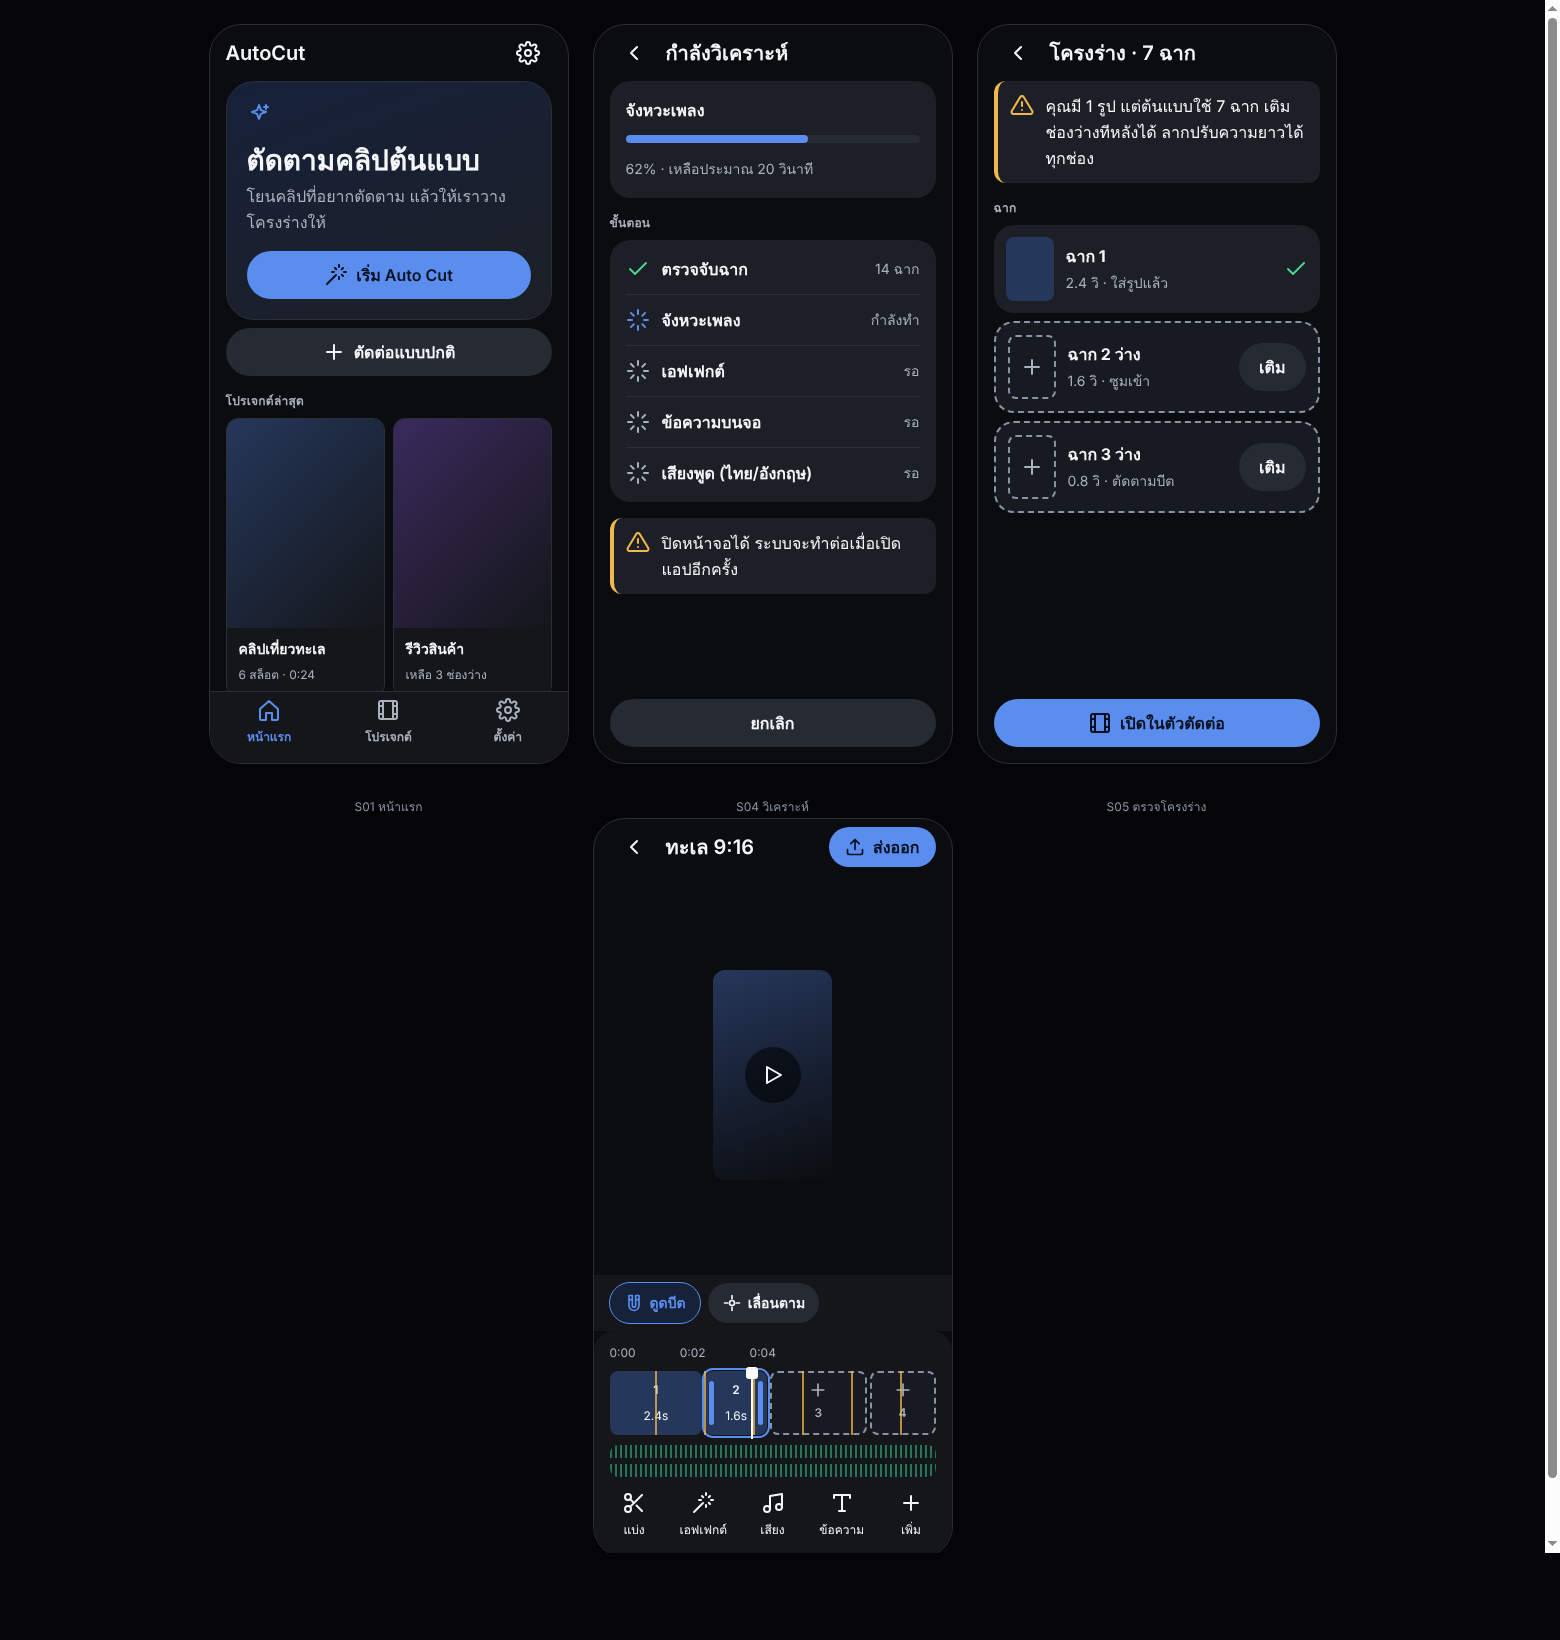
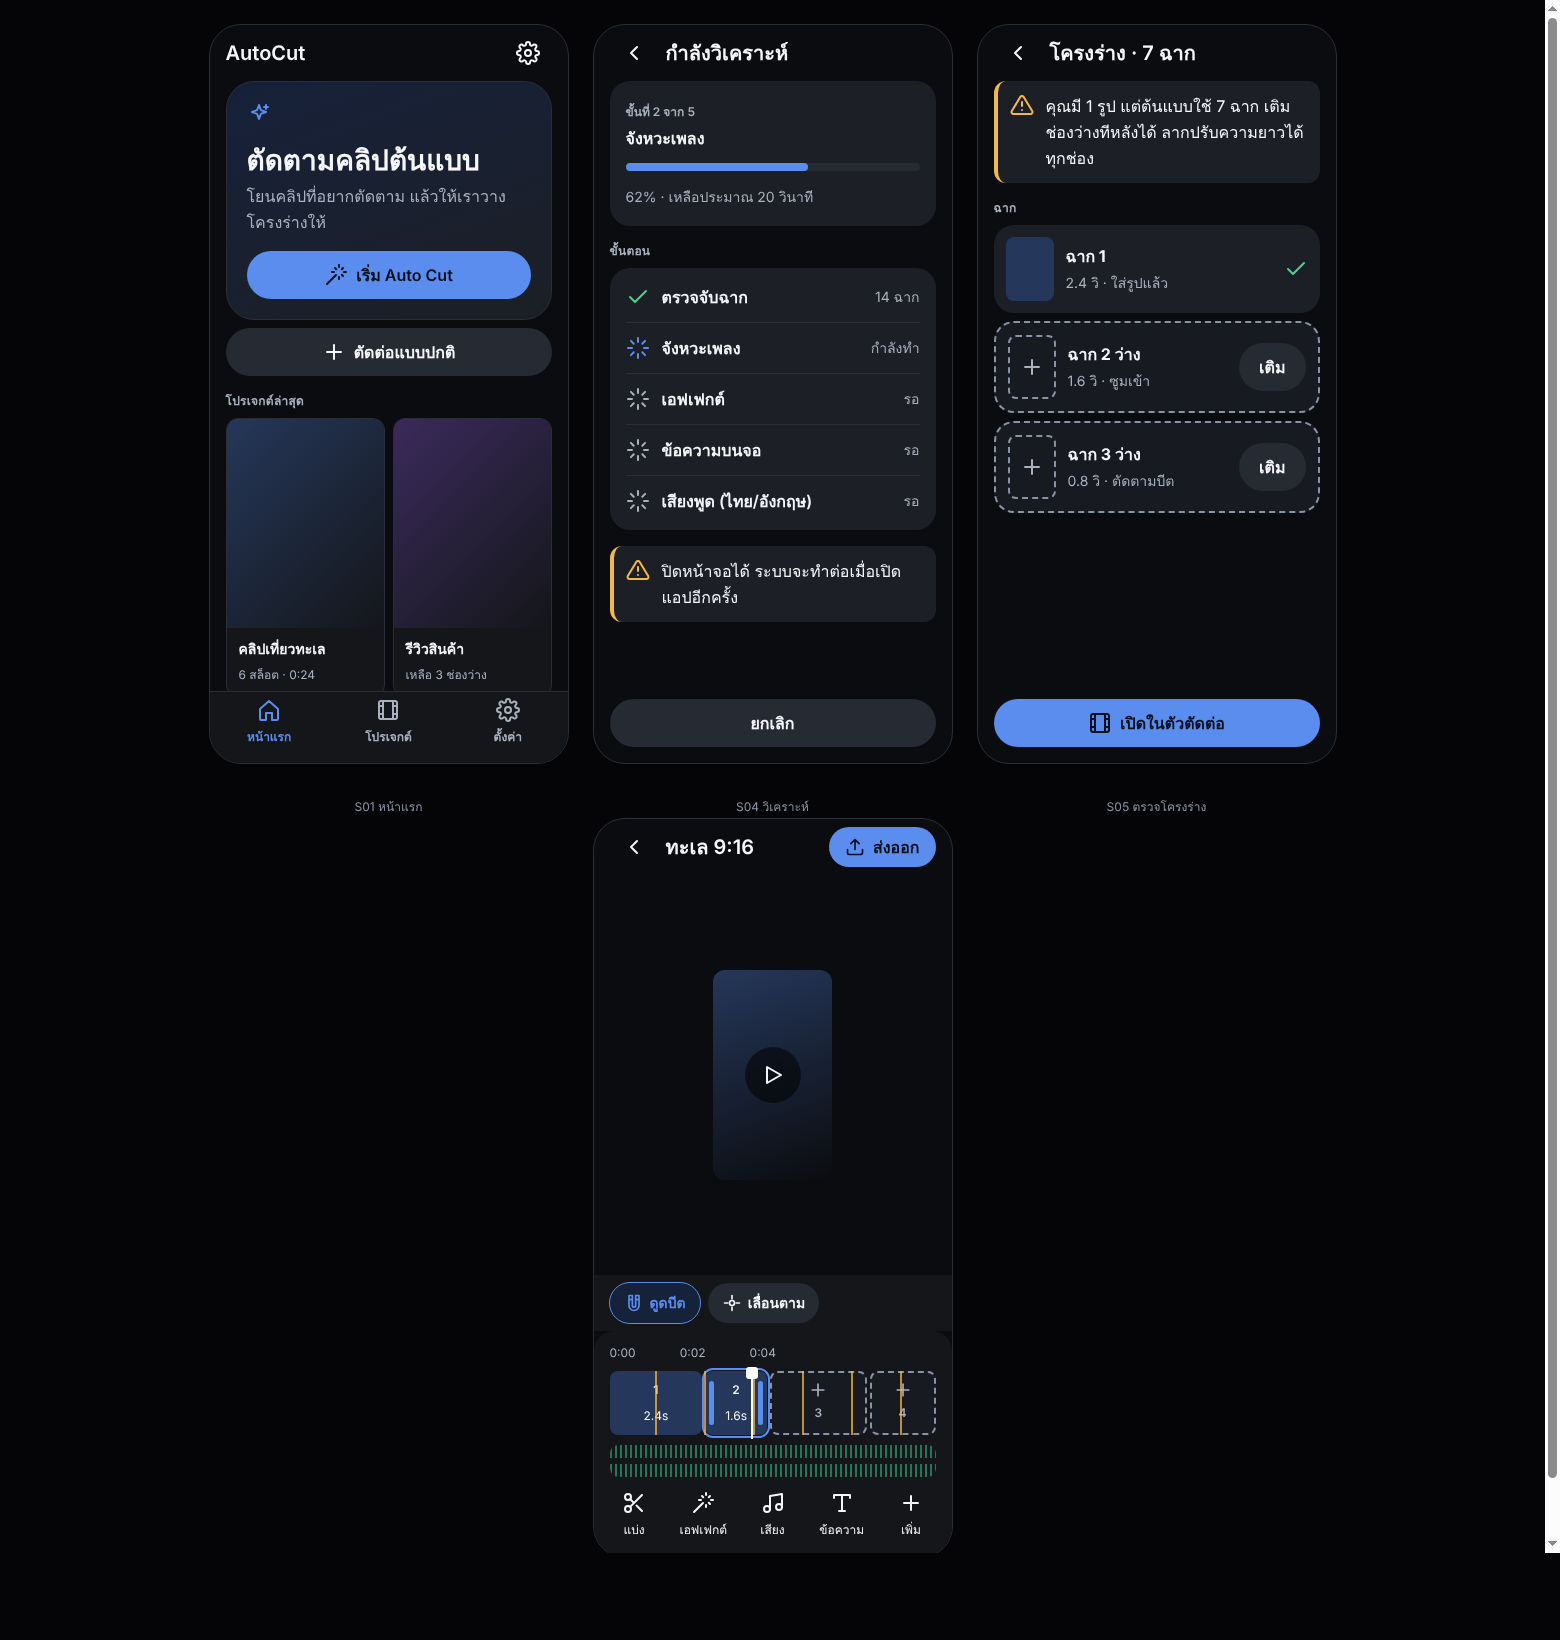
Apply ui-ux-pro-max guidance: web responsive layout, step indicator, Thai font
Claude-Session: https://claude.ai/code/session_01AQu2uFQHbZAiWnJLS3EGY4

Changed region(s): [[0.4, 0.0622, 0.5538, 0.3732], [0.5538, 0.1555, 0.5846, 0.2177]]

diff --git a/replica/design/web.html b/replica/design/web.html
@@ -1,0 +1,38 @@
+<!doctype html><html lang="th"><head><meta charset="utf-8"><meta name="viewport" content="width=device-width,initial-scale=1">
+<title>AutoCut web editor</title><link rel="stylesheet" href="tokens.css">
+<link rel="stylesheet" href="https://fonts.googleapis.com/css2?family=Noto+Sans+Thai:wght@400;500;600;700&display=swap">
+<style>
+*{box-sizing:border-box}html,body{height:100%}
+body{margin:0;background:var(--c-bg);color:var(--c-text);font:var(--fw-body) var(--fs-body)/var(--lh-body) var(--font-sans)}
+.app{display:grid;height:100dvh;grid-template-rows:var(--l-header) 1fr auto;grid-template-areas:"top" "stage" "tl";padding-bottom:env(safe-area-inset-bottom)}
+.top{grid-area:top;display:flex;align-items:center;gap:8px;padding:0 16px;border-bottom:1px solid var(--c-border)}
+.top h1{flex:1;margin:0;font-size:var(--fs-title);line-height:var(--lh-title)}
+.stage{grid-area:stage;display:grid;grid-template-columns:1fr;min-height:0}
+.panel{display:none;background:var(--c-surface);border-right:1px solid var(--c-border);padding:16px;overflow:auto}
+.prev{display:grid;place-items:center;padding:16px;min-height:0}
+.phone{height:min(100%,520px);aspect-ratio:9/16;background:linear-gradient(160deg,#25375a,#0b0c0f);border-radius:var(--r-md);display:grid;place-items:center}
+.tl{grid-area:tl;background:var(--c-surface);border-top:1px solid var(--c-border);padding:8px 16px 16px}
+.chips{display:flex;gap:8px;margin-bottom:8px;flex-wrap:wrap}
+.chip{min-height:40px;padding:0 14px;border-radius:var(--r-pill);display:inline-flex;align-items:center;background:var(--c-surface-high);font-weight:600;border:0;color:var(--c-text);font-family:inherit;font-size:var(--fs-label)}
+.chip[aria-pressed=true]{background:var(--c-accent-soft);color:var(--c-accent);outline:1px solid var(--c-accent)}
+.row{display:flex;gap:3px;height:var(--l-timeline-row);position:relative}
+.slot{border-radius:var(--r-sm);display:grid;place-items:center;font-size:var(--fs-caption);font-weight:600;min-width:var(--l-slot-min-width)}
+.f{background:var(--c-slot-filled)}.e{background:var(--c-slot-empty-fill);border:2px dashed var(--c-slot-empty-border);color:var(--c-text-muted)}
+.s{outline:2px solid var(--c-slot-selected);outline-offset:1px}
+.btn{min-height:48px;padding:0 20px;border-radius:var(--r-pill);border:0;font:inherit;font-weight:600;background:var(--c-accent);color:var(--c-on-accent)}
+.btn:focus-visible,.chip:focus-visible{outline:2px solid var(--c-accent);outline-offset:2px}
+.media{display:grid;grid-template-columns:repeat(2,1fr);gap:8px}.media div{aspect-ratio:1;border-radius:var(--r-sm);background:var(--c-surface-high)}
+h2{font-size:var(--fs-label);color:var(--c-text-muted);margin:0 0 12px}
+.insp{display:none}
+@media(min-width:768px){.stage{grid-template-columns:240px 1fr}.panel.l{display:block}}
+@media(min-width:1100px){.stage{grid-template-columns:280px 1fr 300px}.insp{display:block;border-right:0;border-left:1px solid var(--c-border)}}
+</style></head><body><div class="app">
+<header class="top"><h1>ทะเล · 9:16</h1><button class="btn">ส่งออก</button></header>
+<main class="stage">
+ <aside class="panel l"><h2>สื่อของคุณ</h2><div class="media"><div></div><div></div><div></div></div></aside>
+ <section class="prev"><div class="phone" aria-label="Preview"></div></section>
+ <aside class="panel insp"><h2>ฉาก 2 · ซูมเข้า</h2><p style="color:var(--c-text-muted)">ความยาว 1.6 วิ ลากขอบสล็อตเพื่อปรับ</p></aside>
+</main>
+<section class="tl"><div class="chips"><button class="chip" aria-pressed="true">ดูดบีต</button><button class="chip" aria-pressed="false">เลื่อนตาม</button></div>
+<div class="row"><div class="slot f" style="flex:3">1</div><div class="slot f s" style="flex:2">2</div><div class="slot e" style="flex:3">+ 3 ว่าง</div><div class="slot e" style="flex:2">+ 4 ว่าง</div><div class="slot f" style="flex:3">5</div></div></section>
+</div></body></html>

diff --git a/replica/design/screens.html b/replica/design/screens.html
@@ -1,5 +1,5 @@
 <!doctype html><html lang="th"><head><meta charset="utf-8"><meta name="viewport" content="width=device-width,initial-scale=1">
-<title>AutoCut screens</title><link rel="stylesheet" href="tokens.css">
+<title>AutoCut screens</title><link rel="stylesheet" href="tokens.css"><link rel="stylesheet" href="https://fonts.googleapis.com/css2?family=Noto+Sans+Thai:wght@400;500;600;700&display=swap">
 <style>
 *{box-sizing:border-box}
 body{margin:0;background:#050507;color:var(--c-text);font:var(--fw-body) var(--fs-body)/var(--lh-body) var(--font-sans);padding:24px;display:flex;gap:24px;flex-wrap:wrap;justify-content:center}
@@ -94,7 +94,7 @@ svg{width:24px;height:24px;stroke:currentColor;fill:none;stroke-width:2;stroke-l
 <div class="wrap"><div class="phone">
  <div class="top"><button class="ib" aria-label="Back"><svg><use href="#back"/></svg></button><h1>กำลังวิเคราะห์</h1></div>
  <div class="body">
-  <div class="card"><b>จังหวะเพลง</b><div class="bar"><i></i></div><span style="color:var(--c-text-muted);font-size:var(--fs-label)">62% · เหลือประมาณ 20 วินาที</span></div>
+  <div class="card"><span style="color:var(--c-text-muted);font-size:var(--fs-caption);font-weight:600">ขั้นที่ 2 จาก 5</span><br><b>จังหวะเพลง</b><div class="bar"><i></i></div><span style="color:var(--c-text-muted);font-size:var(--fs-label)">62% · เหลือประมาณ 20 วินาที</span></div>
   <div class="lbl">ขั้นตอน</div>
   <div class="card" style="padding:4px 16px">
    <div class="stage"><svg class="ok"><use href="#check"/></svg><b>ตรวจจับฉาก</b><span>14 ฉาก</span></div>

diff --git a/replica/design/components.md b/replica/design/components.md
@@ -38,3 +38,12 @@ Used on S05,S06,S07,S08.
 **Dialog / Toast**: confirm (empty slots at export), undo toast after delete. Used on S12.
 
 **Empty state**: icon + one-line Thai/English copy + one action, written fresh. Used on S01,S02.
+
+## v3: checked against the installed ui-ux-pro-max database (nextlevelbuilder, v2.15.0)
+- Style match: "Dark Mode (OLED)" (keep near-black bg, visible focus, reduced motion). Its suggested pink/blue "video" palette and the "Hero-Centric" landing pattern were **not** adopted: the pattern is for landing pages, and the accent stays a neutral placeholder until /replica-brand.
+- Typography: database confirms **Noto Sans Thai** (Thai + Latin). Web: Google Fonts import in `screens.html`/`web.html`. Android: bundle the .ttf in `res/font` (no runtime fetch).
+- Touch: Android 48dp, iOS 44pt, web 24 CSS px minimum but we keep 48 on touch layouts.
+- Progress: multi-step work shows "Step 2 of 5" plus a bar (S04).
+- Empty states: message + one action (S05 "เติม" on every empty slot).
+- Web responsive: mobile-first, breakpoints 768 (adds media panel) and 1100 (adds inspector). Mockup: `web.html`, screenshots `web-1280.png`, `web-375.png`.
+- Compose/Tailwind stack searches returned thin results (Compose: state + animate*AsState only); the rest follows our own rules.
